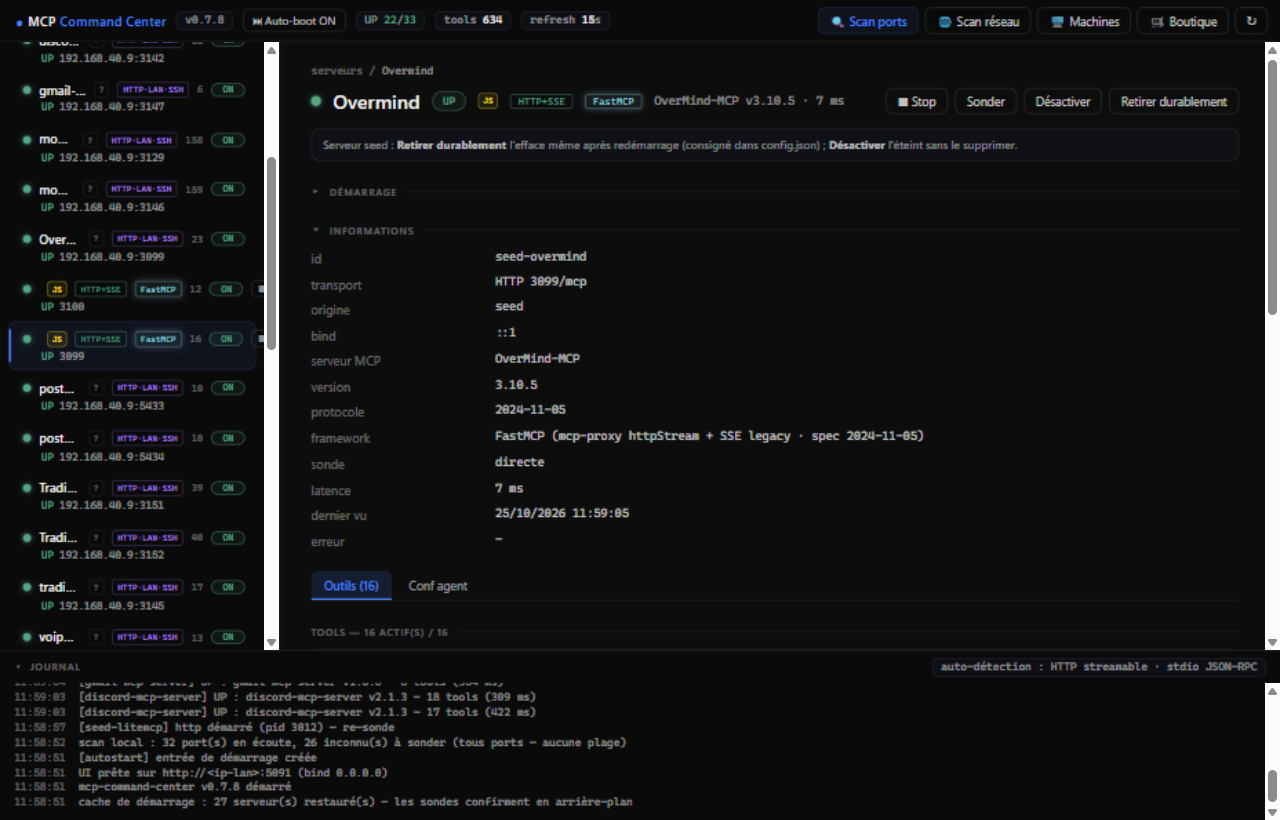
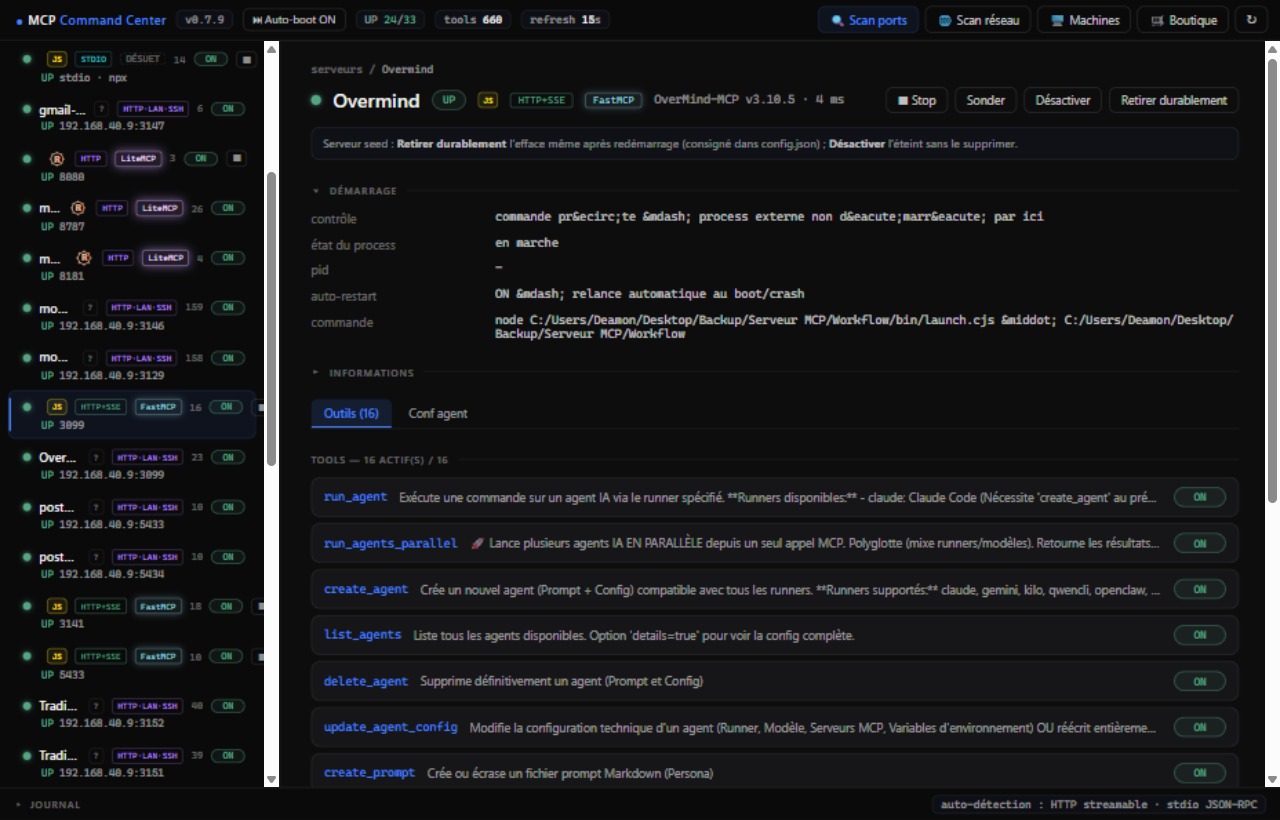
feat(ui+docs): v0.7.9 — journal replié par défaut + README ultra simple, captures refaites sans console
- journal (console en bas) REPLIÉ par défaut : fenêtre épurée à l'ouverture ;
  un clic sur sa barre le déplie et le choix est retenu (localStorage mcc.logmin)
- README encore plus noob-friendly : vocabulaire courant, tableaux « Tu vois /
  Ça veut dire » et « Problème / Solution », jargon relégué dans des blocs
  repliés (API, sécurité, compilation)
- 4 captures refaites SANS le journal ouvert (accueil, détail serveur,
  serveur Rust grand R + badge LiteMCP, boutique ouverte 64 cartes)
- embarque l'appendice documentaire de l'audit 2026-10-25

diff --git a/src/ui.rs b/src/ui.rs
@@ -312,7 +312,7 @@ input:focus,select:focus{outline:none;border-color:var(--accent);box-shadow:0 0 
 </div>
 
 <div id="logpanel">
-  <div id="loghead" onclick="document.getElementById('logpanel').classList.toggle('min')">
+  <div id="loghead" onclick="toggleLog()">
     <span class="arrow">&#9662;</span><span class="lbl">Journal</span>
     <span class="tb-badge" style="margin-left:auto">auto-d&eacute;tection : HTTP streamable &middot; stdio JSON-RPC</span>
   </div>
@@ -1167,6 +1167,18 @@ async function installStore(id, btn) {
   } catch (e) { /* navigateur classique : rien à câbler */ }
 })();
 
+/* Journal replié PAR DÉFAUT (interface épurée) : l'opérateur l'ouvre d'un clic
+   sur sa barre et son choix est retenu (localStorage). */
+function toggleLog() {
+  const lp = document.getElementById('logpanel');
+  lp.classList.toggle('min');
+  try { localStorage.setItem('mcc.logmin', String(lp.classList.contains('min'))); } catch (e) {}
+}
+(function () {
+  let v = null;
+  try { v = localStorage.getItem('mcc.logmin'); } catch (e) {}
+  document.getElementById('logpanel').classList.toggle('min', v === null ? true : v === 'true');
+})();
 load();
 setInterval(load, 5000);
 // retour de la fenêtre (tray → visible) : reprise immédiate du rafraîchissement

diff --git a/README.md b/README.md
@@ -1,99 +1,109 @@
 # MCP Command Center
 
-Ton tableau de bord pour les serveurs **MCP** : l'app les **trouve toute seule**, les **surveille** en continu, et te laisse les **démarrer / arrêter** d'un clic. Application native en Rust — légère (~40 Mo en mémoire), aucune dépendance à installer.
+Une petite application qui **veille sur tes serveurs MCP** : elle les trouve toute seule, te dit lequel marche et lequel est cassé, et te laisse tout allumer ou éteindre d'un clic.
 
-![Aperçu](assets/readme-accueil.png)
-*L'app au démarrage : tes serveurs à gauche (état, badges, langage), les chiffres clés au centre, le journal en bas. Tout est découvert automatiquement.*
+![L'application au démarrage](assets/readme-accueil.png)
 
-## En 30 secondes
+## Ça sert à quoi ?
 
-1. Lance `start-command-center.bat` (ou l'exe installé).
-2. L'app s'ouvre et **scanne tous les ports de la machine** — chaque serveur MCP apparaît tout seul, quel que soit son port.
-3. C'est tout. Clique sur un serveur pour voir ses tools, ses infos, et le piloter.
+- **Voir** tous tes serveurs MCP en un coup d'œil (même ceux que tu avais oubliés).
+- **Savoir** immédiatement qui marche et qui est planté.
+- **Agir** : démarrer, arrêter, installer de nouveaux serveurs, tout depuis la même fenêtre.
 
-> Astuce : un serveur ne s'affiche pas ? Clique sur **⟳** (en haut à droite) — il re-sonde tout et cherche les nouveaux.
+## Démarrer
 
-## Ce que tu vois
+1. Double-clique sur `start-command-center.bat` (ou l'icône de l'app installée).
+2. La fenêtre s'ouvre. **C'est tout** — la liste se remplit toute seule.
 
-![Détail d'un serveur](assets/readme-detail.png)
-*Un serveur sélectionné : sa liste de tools (chacun activable/désactivable), son état, sa latence, sa version, et le **framework** avec lequel il est construit (badge `FastMCP`, `LiteMCP`…) avec la spec MCP utilisée.*
+## Lire l'écran
 
-![Serveur Rust](assets/readme-rust.png)
-*Un serveur écrit en Rust : logo **R** cerclé d'un engrenage + badge du framework détecté automatiquement (ici LiteMCP, spec 2026-07-28).*
+| Tu vois | Ça veut dire |
+|---|---|
+| 🟢 **UP** | Le serveur marche |
+| 🟠 **PORT-ONLY** | Le serveur est planté (le port répond, mais pas le serveur) |
+| ⚪ **DOWN** | Le serveur est éteint |
+| ⚫ **DISABLED** | Tu l'as désactivé toi-même |
 
-![Boutique](assets/readme-boutique.png)
-*La **boutique** : 64 serveurs MCP installables en un clic (Filesystem, GitHub, Playwright, Puppeteer…), avec leurs logos officiels.*
+Les petits badges à côté du nom (`FastMCP`, `LiteMCP`…) indiquent **avec quoi le serveur est construit** — reconnu automatiquement, tu n'as rien à faire.
+
+![Un serveur en détail](assets/readme-detail.png)
+*Clique sur un serveur : tu vois tous ses outils (tools), son état, sa vitesse, sa version — et des boutons pour l'allumer, l'éteindre, ou couper un outil précis.*
+
+![Un serveur écrit en Rust](assets/readme-rust.png)
+*Un serveur Rust affiche son logo 🦀 (le « R » cerclé). Ici l'app a aussi reconnu le framework LiteMCP.*
 
 ## Les boutons
 
 | Bouton | Ce qu'il fait |
 |---|---|
-| **⟳** | Rafraîchit tout **et** découvre les nouveaux serveurs |
-| **🔍 Scan ports** | Scanne une plage de ports précise (réglable dans config.json) |
-| **🌐 Scan réseau** | Cherche des serveurs MCP sur les autres machines du réseau local |
-| **🖥 Machines** | Connecte une autre machine (VPS, Docker…) en SSH et importe ses serveurs — même ceux bindés `localhost` |
-| **🛒 Boutique** | 64 serveurs MCP à installer en un clic |
-| **+ Ajouter** | Ajoute un serveur à la main (port HTTP, ou programme stdio) |
-| **ON/OFF** (par ligne) | Allume / éteint un serveur |
-| **▶ / ■** | Démarre / arrête le process du serveur |
-| **⇅** (au-dessus de la liste) | Reclasse les serveurs : A→Z, état, port, latence, tools — ou glisse une ligne à la main |
-| **⏭ Auto-boot** | Lance (ou non) l'app au démarrage de Windows ; fermer la fenêtre = réduit dans le tray |
+| **⟳** | Rafraîchit tout et cherche les nouveaux serveurs |
+| **🔍 Scan ports** | Cherche des serveurs sur une plage de ports |
+| **🌐 Scan réseau** | Cherche des serveurs sur les autres PC du réseau |
+| **🖥 Machines** | Va chercher les serveurs d'une autre machine (VPS, serveur…) via SSH |
+| **🛒 Boutique** | 64 serveurs MCP prêts à installer en 1 clic |
+| **+ Ajouter** | Ajouter un serveur à la main |
+| **ON/OFF** | Allumer / éteindre un serveur |
+| **▶ / ■** | Démarrer / arrêter le programme du serveur |
+| **⇅** | Ranger la liste (A→Z, état, rapidité…) — ou glisse une ligne à la main |
+| **⏭ Auto-boot** | Ouvrir l'app automatiquement au démarrage de Windows |
 
-## Questions fréquentes
+![La boutique](assets/readme-boutique.png)
+*64 serveurs MCP à installer d'un clic, avec leurs logos. Une barre de recherche pour trouver le bon.*
 
-**Mon serveur MCP n'apparaît pas ?**
-Au démarrage, l'app lit tous les ports en écoute de la machine et sonde chacun (`/mcp`, `/`, `/api/mcp`) — il est trouvé automatiquement. Sinon : bouton **⟳**, ou **+ Ajouter** avec son port.
+## Un problème ? La réponse rapide
 
-**C'est quoi les badges `FastMCP`, `LiteMCP`, `HTTP+SSE` ?**
-Le framework détecté automatiquement par fingerprint (avec la spec MCP utilisée), et le type de transport. Tu n'as rien à configurer.
+| Problème | Solution |
+|---|---|
+| Mon serveur n'apparaît pas | Clique **⟳**. Sinon : **+ Ajouter** avec son numéro de port |
+| « Code d'accès » demandé | Ça n'arrive JAMAIS sur ton PC — seulement si tu ouvres l'app depuis une autre machine. Le code est dans `config.json` |
+| L'app ne s'ouvre plus | Elle est peut-être déjà dans la zone de notification (près de l'horloge) — clique sur son icône |
+| Où voir l'historique ? | Barre « Journal » en bas de la fenêtre — clique dessus pour la déplier |
+| Un serveur ne redémarre pas | Après 3 échecs, l'app arrête d'insister. Clique **▶** pour réessayer |
 
-**On me demande un « code d'accès » ?**
-Seulement si l'UI est ouverte aux autres machines du LAN. En usage local (fenêtre de l'app, navigateur de la machine) : **jamais aucun code**. Le code vit dans `settings.api_access` du config.json.
+## Pour aller plus loin
 
-**Où sont les logs ?**
-Dans `mcc.log`, à côté du config.json (et dans le panneau Journal de l'app).
-
-**Comment ça démarre avec Windows ?**
-Bouton **⏭ Auto-boot ON** dans la barre de titre. L'app vit alors dans le tray et surveille tes serveurs sans fenêtre.
-
-## Pour les scripts (API)
-
-Tout est pilotable en HTTP local (aucun code requis en local) :
+<details>
+<summary><b>Commander l'app depuis un script (avancé)</b></summary>
 
 ```bash
-# état complet + journal
+# tout l'état
 curl http://127.0.0.1:5090/api/state
 
-# détail d'un serveur (liste des tools)
+# détail d'un serveur
 curl "http://127.0.0.1:5090/api/detail?id=seed-overmind"
 
-# une action : refresh | toggle | scan | discover | add | remove | start | kill | reorder | install_store | import_mcp …
+# une action (refresh, toggle, scan, add, remove, start, kill…)
 curl -X POST -H "Content-Type: application/json" \
   -d '{"action":"add","transport":"stdio","label":"mon-mcp","program":"node","args":["dist/index.js"]}' \
   http://127.0.0.1:5090/api/action
 ```
 
-Si l'UI est ouverte au LAN (`"ui_bind": "0.0.0.0"`), chaque appel `/api/*` exige le code (`X-MCC-Access`). Les pairs command-center s'authentifient par preuve HMAC — le code ne circule jamais en clair.
+</details>
 
-## Sécurité, en une minute
+<details>
+<summary><b>Sécurité (avancé)</b></summary>
 
-- Par défaut, l'UI n'écoute que la machine locale (`127.0.0.1`) — rien d'exposé.
-- Ouverture LAN : code d'accès généré automatiquement, jamais envoyé dans la page.
-- Protections anti-CSRF/DNS-rebinding, CSP stricte, corps de requêtes plafonnés.
+- Par défaut, l'app n'est joignable que depuis ton PC — rien n'est ouvert vers l'extérieur.
+- Si tu l'ouvres au réseau (d'autres machines), un code d'accès est exigé d'elles automatiquement.
+- L'app vérifie les origines des connexions et plafonne la taille des requêtes.
 
-## Compiler / installer
+</details>
+
+<details>
+<summary><b>Compiler soi-même (avancé)</b></summary>
 
 ```bash
 cargo build --release -p mcp-command-center -p mcp-command-center-desktop
+cargo test      # 75 tests
 ```
 
-- `mcp-command-center` : le moteur (headless, console) — `start-headless.bat`
-- `mcp-command-center-desktop` : la fenêtre native (Tauri) — `start-command-center.bat`
-- Tests : `cargo test` (75) · Lint : `cargo clippy --all-targets -- -D warnings`
+- `start-command-center.bat` → la fenêtre de l'app
+- `start-headless.bat` → juste le moteur, sans fenêtre
+- Les serveurs écrits avec [LiteMCP](https://github.com/DeamonDev888/litemcp) (lib Rust) sont reconnus automatiquement.
 
-> **Écosystème** : les serveurs écrits avec [**LiteMCP**](https://github.com/DeamonDev888/litemcp) (lib MCP Rust stateless, [crates.io](https://crates.io/crates/litemcp)) sont détectés et badgés nativement.
+</details>
 
-## Limites connues
+## Limites
 
-- La détection HTTP ne fait pas de TLS (un serveur `https://` n'est pas sondable — passe par un tunnel local).
-- `config.json` vit à côté de l'exe (chemin figé, surchargeable via `MCC_CONFIG`).
+- Un serveur en `https://` n'est pas sondable (pas de TLS) — passe par un tunnel local.
+- Le fichier `config.json` vit à côté de l'exe.

diff --git a/AUDIT-2026-10-25.md b/AUDIT-2026-10-25.md
@@ -145,7 +145,37 @@ La CSP actuelle **n'arrête pas** ce vecteur : elle autorise explicitement `scri
 
 **Scénario** : un serveur MCP stdio (ou un processus lancé par `add stdio`) qui écrit une ligne unique de 300 Mo sans `\n` fait allouer 300 Mo d'un bloc par `BufRead::lines` — **mesuré : 314 572 800 octets lus en une `read_line`**. Le côté HTTP est plafonné (`MAX_PROBE_READ` 2 Mo, `MAX_PROBE_READ_SMALL` 256 Ko) ; le côté stdio ne l'était pas.
 
-**Correctif appliqué** : `BufRead::lines()` remplacé par une lecture manuelle bornée (`read_until(b'\n', &mut buf)` + troncature à `MAX_PROBE_READ`). Vérifié : un serveur stdio écrivant 100 Mo sur une ligne donne désormais un **timeout propre**, sans allocationmassive ni panic.
+**Correctif appliqué** : `BufRead::lines()` remplacé par une lecture manuelle bornée (`read_until(b'\n', &mut buf)` + troncature à `MAX_PROBE_READ`). Vérifié : un serveur stdio écrivant 100 Mo sur une ligne donne désormais un **timeout propre**, sans allocation massive ni panic.
+
+---
+
+## 6bis. Trois défauts supplémentaires trouvés par les auditeurs parallèles (CORRIGÉS)
+
+### D — P0 : injection CRLF dans les en-têtes de sonde (request splitting)
+
+**Localisation** : `src/probe.rs` — `http_request`, boucle d'écriture des `extra_headers`.
+
+**Scénario** : la sonde de pairs récupère un nonce sur `GET /api/hello` du pair puis le réinjecte **tel quel** dans l'en-tête `X-MCC-Nonce`. Un faux pair renvoyant un nonce contenant `\r\n` contrôlait la requête émise : en-têtes injectés, voire une **seconde requête complète** (request splitting) — prouvé par capture de la requête brute (`X-Injected-Header: owned` + `GET /api/secret HTTP/1.1` dans le flux).
+
+**Correctif appliqué** : `http_request` n'écrit désormais une valeur d'en-tête additionnel que si elle est alphanumérique (`/+=._-~:` tolérés, ≤ 256 octets) — le nonce et la preuve HMAC sont hex, donc toujours acceptés ; tout ce qui contient CR/LF/espace/`:` est rejeté.
+
+**Vérification** (faux pair avec nonce injecté) : la requête capturée ne contient plus aucun en-tête injecté — le header malveillant est simplement omis.
+
+### E — P0 : `esc()` utilisé en contexte JavaScript (handlers inline)
+
+**Localisation** : `src/ui.rs:949-951, 959` (`renderMachines`).
+
+**Scénario** : `onclick="sshDiscover('${esc(h.ip)}','${esc(h.user)}')"`. `esc()` échappe pour le contexte **HTML**, pas pour le contexte **JS** : le navigateur décode d'abord les entités HTML de l'attribut (`&#39;` redevient `'`), puis le parseur JS voit la quote comme fin de chaîne → injection par `ip = x');<code>;//`. `h.ip`/`h.user` sont acceptés sans validation par l'action `ssh_save`.
+
+**Correctif appliqué** : `js()` (= `esc(JSON.stringify(...))`, littéral JS valide) partout : `sshDiscover(${js(h.ip)},${js(h.user)})`, `importPeer(${js(h.ip)})`, `sshForget(${js(h.ip)})` (4 sites). Vérifié dans la page servie : plus aucun `onclick='…${esc(`.
+
+### F — P1 : deadlock AB-BA `update_latest` × `log`
+
+**Localisation** : `src/manage.rs` — `check_update` (avant correctif) tenait `update_latest` pendant `add_log`.
+
+**Scénario** : `check_update` prenait `update_latest` puis appelait `add_log` (verrou `log`) **en le tenant** ; `state_json` prend `log` **puis** `update_latest`. Un thread pouvait tenir `log` et attendre `update_latest` pendant que l'autre tenait `update_latest` et attendait `log` → **deadlock** — reproduit par l'auditeur avec un test dédié (« AB-BA confirmé, les deux threads bloqués »). Le poller de mise à jour (chaque heure) et un chargement d'UI concurrents suffisent.
+
+**Correctif appliqué** : pattern `let should_log = { verrou update_latest ; … } ; if should_log { add_log(…) }` — le verrou est relâché avant de logger. Vérifié : plus aucun appel de `add_log` sous un autre verrou dans le fichier.
 
 ---
 
@@ -223,15 +253,20 @@ La CSP est réelle mais `script-src 'unsafe-inline'` autorise `<script>` inline 
 | 2 | Corriger les 2 panics de `dechunk()` (slice + overflow) + test | **P1** | XS | ✅ **fait et vérifié** |
 | 3 | Échapper les stats de pair dans l'UI (3 sites) | **P0** | XS | ✅ **fait et vérifié** |
 | 4 | Plafonner la lecture stdio (`read_until` + cap 2 Mo) | **P2** | XS | ✅ **fait et vérifié** |
-| 5 | `catch_unwind` + `panic::set_hook` journalisé (le panic doit être **visible** sur disque) | **P1** | S | ⏳ à faire — **cause racine des 3 panics** |
-| 6 | Exposer `last_seen` dans `/api/detail` (diagnostic "poller figé") | **P2** | XS | ⏳ à faire |
-| 7 | `Cache-Control: no-store` sur `/api/*` + `Referrer-Policy: no-referrer` | **P2** | XS | ⏳ à faire |
-| 8 | `Server::new()` + découpage de `manage.rs` (4 596 lignes) | **P2** | M | ⏳ à faire |
-| 9 | Pool borné pour `poll_all` (aujourd'hui séquentiel, > 15 s/cycle) | **P2** | M | ⏳ à faire |
-| 10 | Bouton « déconnecter » (efface `mcc.access`) + `noopener` sur `window.open` | **P3** | XS | ⏳ à faire |
-| 11 | Restreindre la capability Tauri au port effectif | **P3** | XS | ⏳ à faire |
-| 12 | Migrer les handlers inline vers `addEventListener` + CSP nonce | **P3** | M | ⏳ à faire |
-| 13 | Rendu DOM incrémental (keyed diff par `s.id`) | **P3** | M | ⏳ à faire |
+| 5 | Valider les valeurs d'en-têtes de sonde (anti request splitting CRLF) | **P0** | XS | ✅ **fait et vérifié** |
+| 6 | `js()` au lieu de `esc()` dans les handlers inline de renderMachines (4 sites) | **P0** | XS | ✅ **fait et vérifié** |
+| 7 | Casser le deadlock AB-BA `update_latest` × `log` dans `check_update` | **P1** | XS | ✅ **fait et vérifié** |
+| 8 | `catch_unwind` + `panic::set_hook` journalisé (le panic doit être **visible** sur disque) | **P1** | S | ⏳ à faire — **cause racine des 3 panics** |
+| 9 | Exposer `last_seen` dans `/api/detail` (diagnostic "poller figé") | **P2** | XS | ⏳ à faire |
+| 10 | `Cache-Control: no-store` sur `/api/*` + `Referrer-Policy: no-referrer` | **P2** | XS | ⏳ à faire |
+| 11 | `Server::new()` + découpage de `manage.rs` (4 596 lignes) | **P2** | M | ⏳ à faire |
+| 12 | Pool borné pour `poll_all` (aujourd'hui séquentiel, > 15 s/cycle) | **P2** | M | ⏳ à faire |
+| 13 | Bouton « déconnecter » (efface `mcc.access`) + `noopener` sur `window.open` | **P3** | XS | ⏳ à faire |
+| 14 | Restreindre la capability Tauri au port effectif | **P3** | XS | ⏳ à faire |
+| 15 | Migrer les handlers inline vers `addEventListener` + CSP nonce | **P3** | M | ⏳ à faire |
+| 16 | Rendu DOM incrémental (keyed diff par `s.id`) | **P3** | M | ⏳ à faire |
+| 17 | Comparaison du code d'accès / preuve HMAC à temps constant | **P2** | XS | ⏳ à faire (fenêtre d'exploitation très étroite : nonce à usage unique) |
+| 18 | Supprimer le fallback `?access=` (le code ne doit jamais transiter dans une URL) | **P2** | XS | ⏳ à faire |
 
 ---
 

diff --git a/CHANGELOG.md b/CHANGELOG.md
@@ -1,3 +1,11 @@
+## [0.7.9] — Journal replié par défaut + README ultra simple, captures refaites
+
+### UI
+- **Journal (console) replié par défaut** : la fenêtre est épurée à l'ouverture — un clic sur sa barre le déplie et le choix est retenu (localStorage, `mcc.logmin`).
+
+### Docs
+- **README encore plus noob-friendly** : vocabulaire courant, tableaux « Tu vois / Ça veut dire » et « Problème / Solution », parties techniques repliées en détails (API, sécurité, compilation). **Captures refaites sans le journal** (accueil, détail, serveur Rust avec le grand R, boutique ouverte).
+
 ## [0.7.8] — Audit complet 2026-10-25 : 3 panics mortels corrigés + XSS stockée fermée
 
 ### Corrigé
